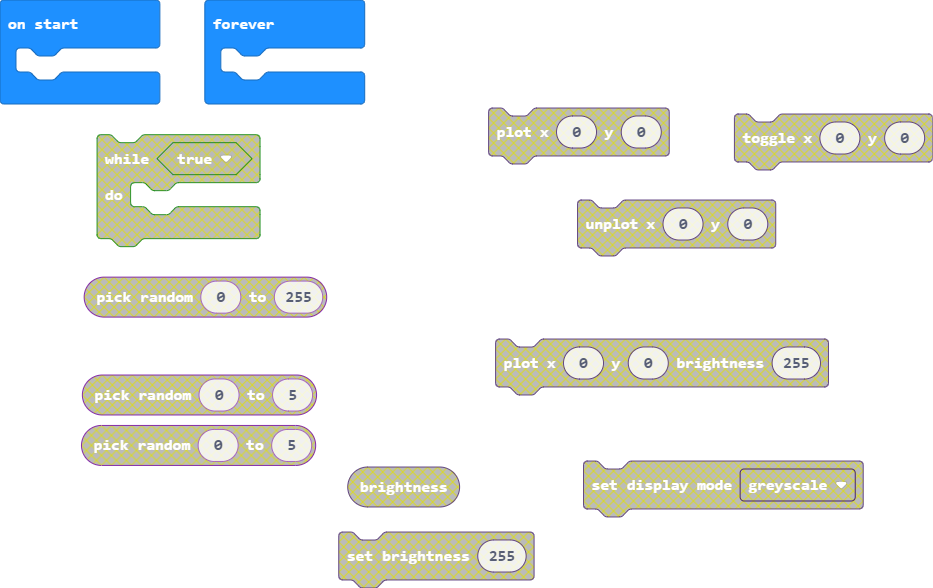
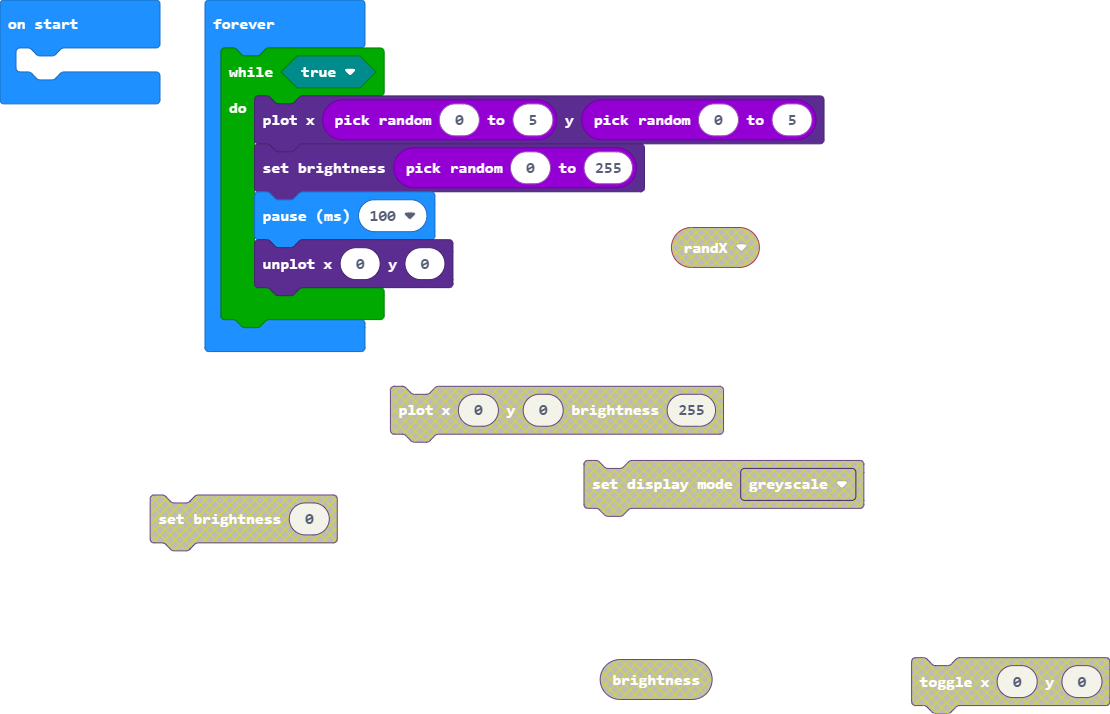
Update main.blocks, main.ts

diff --git a/main.ts b/main.ts
@@ -1,3 +1,8 @@
 basic.forever(function () {
-	
+    while (true) {
+        led.plot(randint(0, 5), randint(0, 5))
+        led.setBrightness(randint(0, 255))
+        basic.pause(100)
+        led.unplot(0, 0)
+    }
 })
